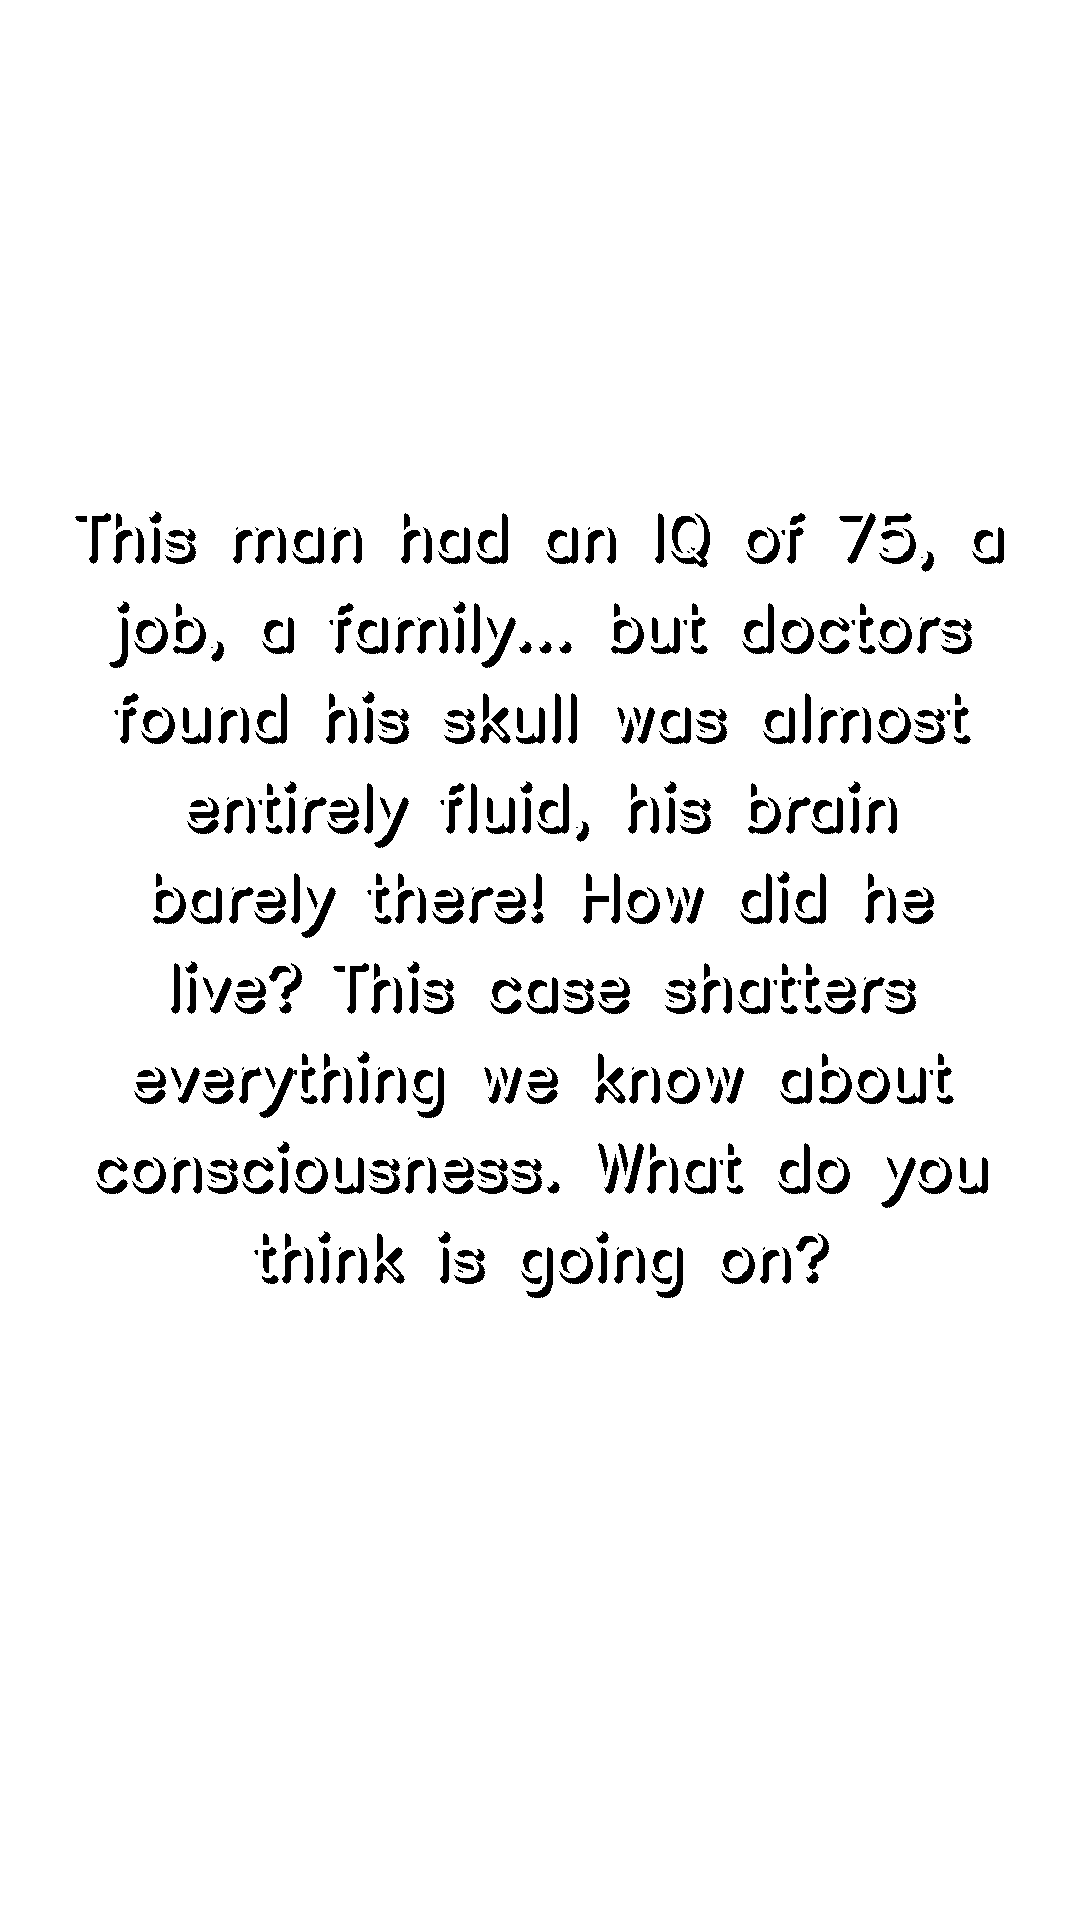
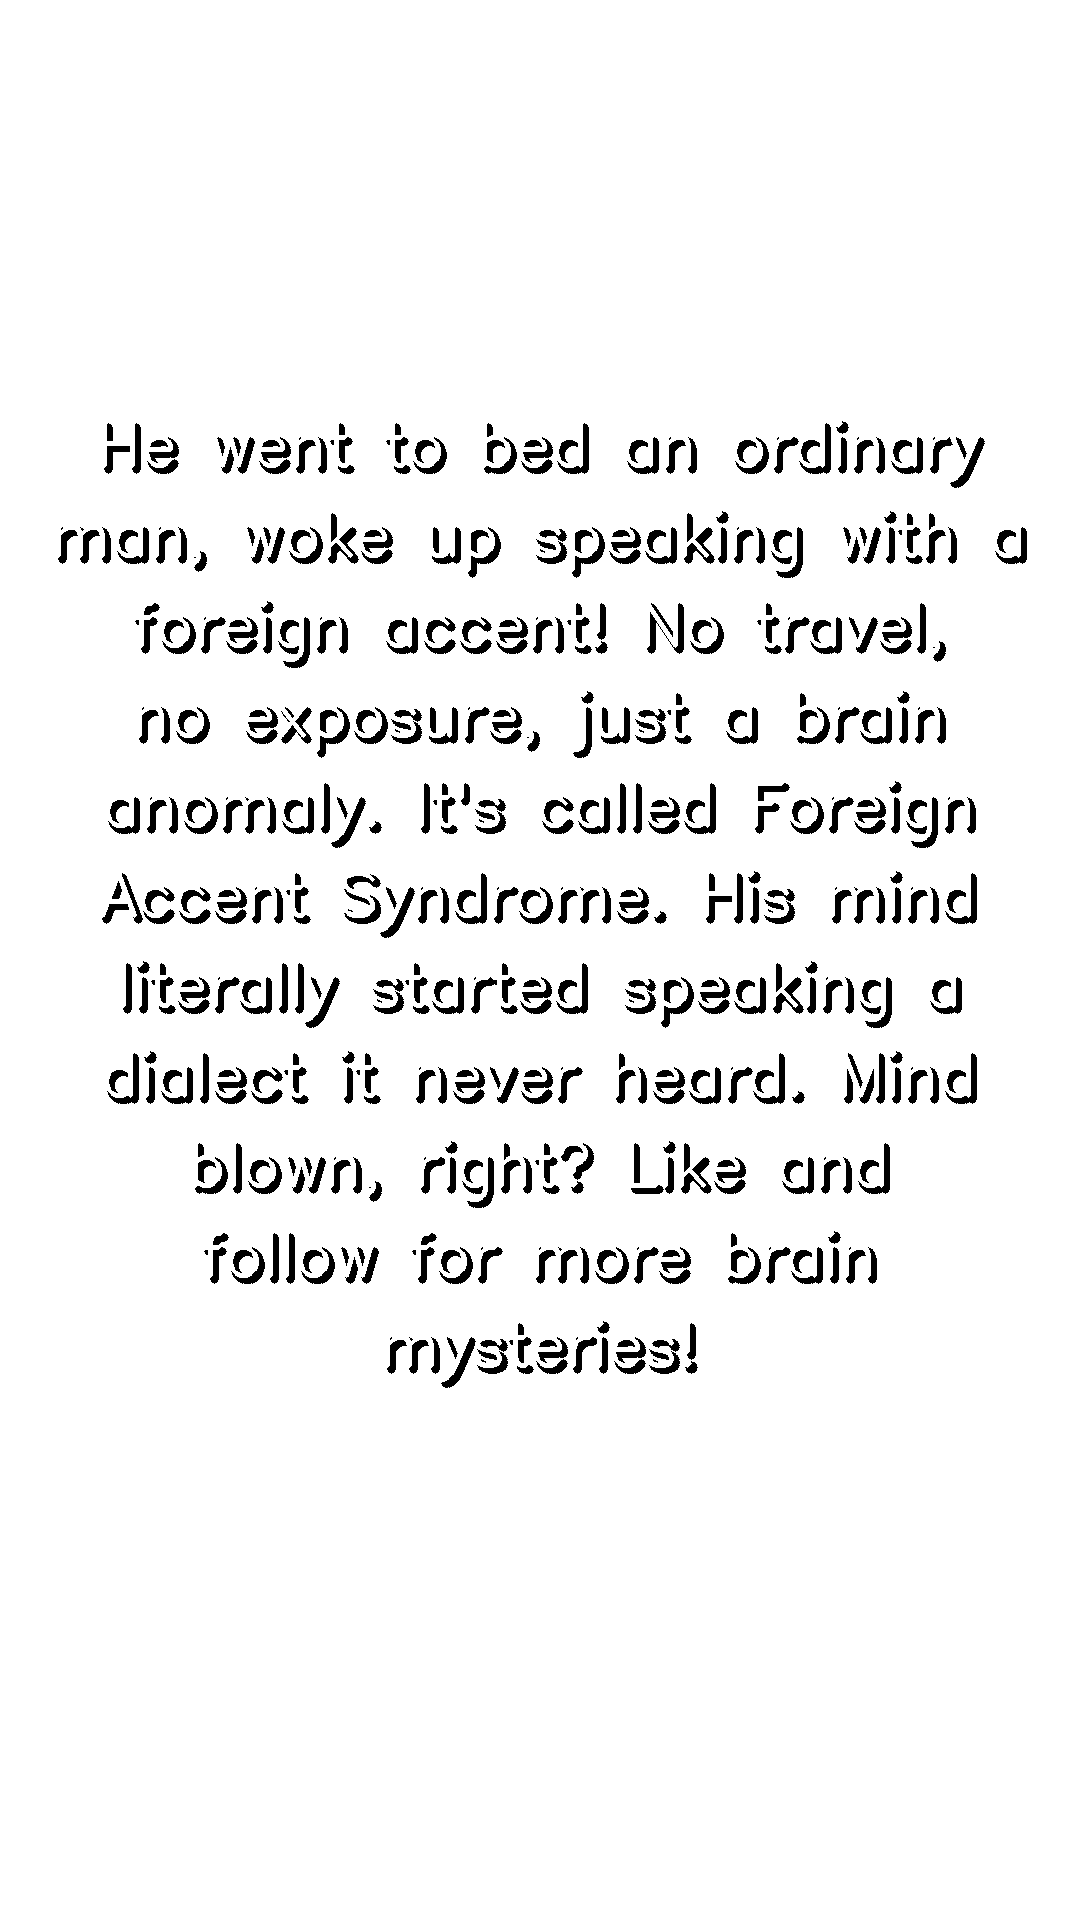
fixed upload agent

Changed region(s): [[0.0611, 0.2188, 0.9167, 0.7188], [0.9167, 0.2812, 0.9472, 0.3125]]

diff --git a/agents/upload_agent.py b/agents/upload_agent.py
@@ -1,19 +1,35 @@
 import os
 import sys
 import json
+import pickle
+import base64
+from googleapiclient.discovery import build
+from googleapiclient.http import MediaFileUpload
+from google.auth.transport.requests import Request
 from dotenv import load_dotenv
-
-# Add your YouTube API imports here (e.g., googleapiclient)
 
 load_dotenv()
 os.chdir(os.path.dirname(os.path.dirname(os.path.abspath(__file__))))
 
-def get_video_metadata():
-    with open("data/todays_video.json", "r", encoding="utf-8") as f:
-        strategy = json.load(f)
-    return strategy.get("title", "Science Mystery Short"), strategy.get("description", "#shorts #science")
+def get_authenticated_service():
+    creds = None
+    token_b64 = os.getenv("YOUTUBE_TOKEN_BASE64")
+    if token_b64:
+        creds = pickle.loads(base64.b64decode(token_b64))
+    elif os.path.exists("token.pickle"):
+        with open("token.pickle", "rb") as token:
+            creds = pickle.load(token)
+    if not creds or not creds.valid:
+        if creds and creds.expired and creds.refresh_token:
+            creds.refresh(Request())
+            if os.path.exists("token.pickle"):
+                with open("token.pickle", "wb") as token:
+                    pickle.dump(creds, token)
+        else:
+            return None
+    return build("youtube", "v3", credentials=creds)
 
-def save_upload_log(video_id, title):
+def save_upload_log(video_id, title, video_url):
     log_file = "data/upload_log.json"
     history = []
     
@@ -30,7 +46,8 @@ def save_upload_log(video_id, title):
     # Append the new video to the list
     history.append({
         "video_id": video_id,
-        "title": title
+        "title": title,
+        "url": video_url
     })
 
     # Save it back as a properly formatted JSON list
@@ -39,37 +56,84 @@ def save_upload_log(video_id, title):
 
 def upload_video():
     print("🚀 Upload Agent: Preparing for PUBLIC launch...")
-    
-    # 🚨 The Fail-Safe Check: Ensure a fresh video was actually rendered
+
+    # 🚨 THE FAIL-SAFE: Prevent Ghost Uploads
     if not os.path.exists("data/video_ready.flag"):
         print("❌ CRITICAL: No fresh video ready flag found. Aborting ghost upload.")
         sys.exit(1)
-        
-    # Delete the flag so it cannot be reused on the next run
     os.remove("data/video_ready.flag")
 
-    video_path = "data/final_short.mp4"
-    title, description = get_video_metadata()
+    if not os.path.exists("data/final_short.mp4"):
+        print("❌ Error: final_short.mp4 missing. Run video_agent.py first.")
+        return
+        
+    with open("data/todays_video.json", "r", encoding="utf-8") as f:
+        strategy = json.load(f)
+
+    with open("data/final_script.json", "r", encoding="utf-8") as f:
+        script_data = json.load(f)
+
+    youtube = get_authenticated_service()
+    if not youtube:
+        print("❌ Error: Could not authenticate with YouTube.")
+        return
+
+    # 1. Title formatting
+    title = strategy.get("title", "PulsePerception Short")[:100]
+
+    # 2. Hashtags formatting (Explicitly add #shorts)
+    raw_hashtags = strategy.get("hashtags", [])
+    clean_hashtags = [h if h.startswith('#') else f"#{h}" for h in raw_hashtags]
+    if "#shorts" not in [h.lower() for h in clean_hashtags]:
+        clean_hashtags.append("#shorts")
+    
+    hashtags_str = " ".join(clean_hashtags)
+
+    # 3. Description
+    transcript = script_data.get("full_spoken_script", "")
+    description = (
+        f"Did you know? 🤔 Subscribe for more mind-bending science and mysteries! \n\n"
+        f"Transcript:\n{transcript}\n\n"
+        f"{hashtags_str}\n\n"
+        f"(Note: Some visuals in this video may be AI-assisted.)"
+    )
 
     print(f"Target Title: '{title}'")
     print("Privacy Status: PUBLIC ⚠ (Going Live!)")
-    print("⏳ Uploading to YouTube...")
-
-    # =====================================================================
-    # 🚨 INSERT YOUR YOUTUBE API UPLOAD CODE HERE
-    # Execute the actual API call to upload `video_path`.
-    # Assume the API call returns a successful `video_id`.
-    # =====================================================================
     
-    # --- Mock Example (Replace with your actual API response) ---
-    video_id = "mock_video_id" # <--- REPLACE WITH ACTUAL ID FROM YOUTUBE
-    # ------------------------------------------------------------
+    body = {
+        "snippet": {
+            "title": title,
+            "description": description,
+            "tags": [h.replace('#', '') for h in clean_hashtags],
+            "categoryId": "28"  
+        },
+        "status": {
+            "privacyStatus": "public",  
+            "selfDeclaredMadeForKids": False
+        }
+    }
 
-    print(f"✅ SUCCESS! Video uploaded.")
-    print(f"Watch it here: https://youtube.com/shorts/{video_id}")
+    insert_request = youtube.videos().insert(
+        part=",".join(body.keys()),
+        body=body,
+        media_body=MediaFileUpload("data/final_short.mp4", chunksize=-1, resumable=True)
+    )
+
+    print("⏳ Uploading to YouTube... ")
     
-    # 🚨 Save the log safely as a JSON List
-    save_upload_log(video_id, title)
+    response = None
+    while response is None:
+        status, response = insert_request.next_chunk()
+        if status:
+            print(f"Uploaded {int(status.progress() * 100)}%")
+
+    print(f"\n✅ SUCCESS! Video uploaded.")
+    video_url = f"https://youtube.com/shorts/{response['id']}"
+    print(f"Watch it here: {video_url}")
+
+    # 🚨 THE FIX: Save the log safely as a JSON List so Discord doesn't crash
+    save_upload_log(response["id"], title, video_url)
 
 if __name__ == "__main__":
     upload_video()
